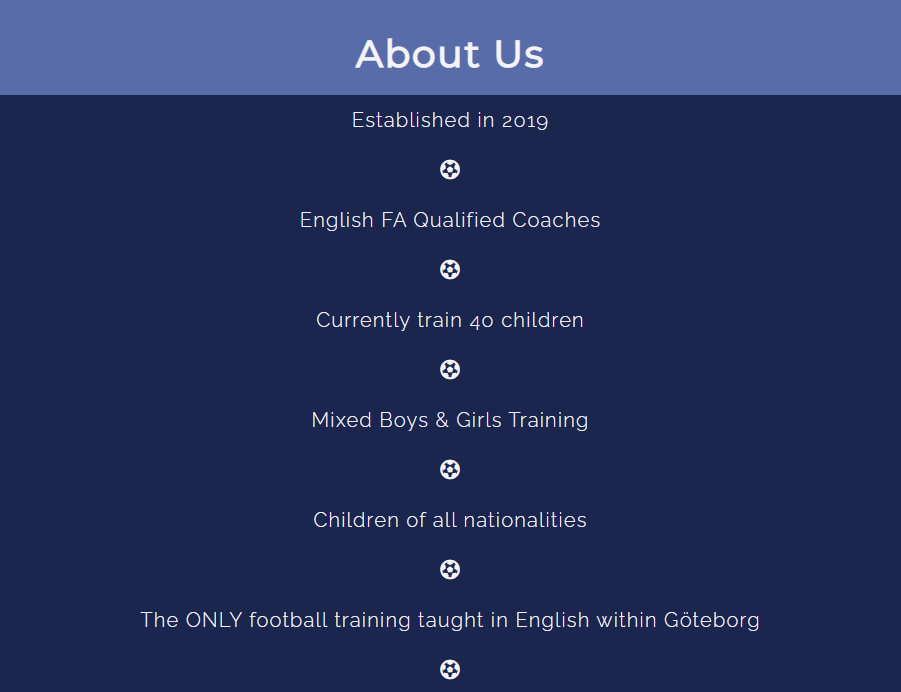
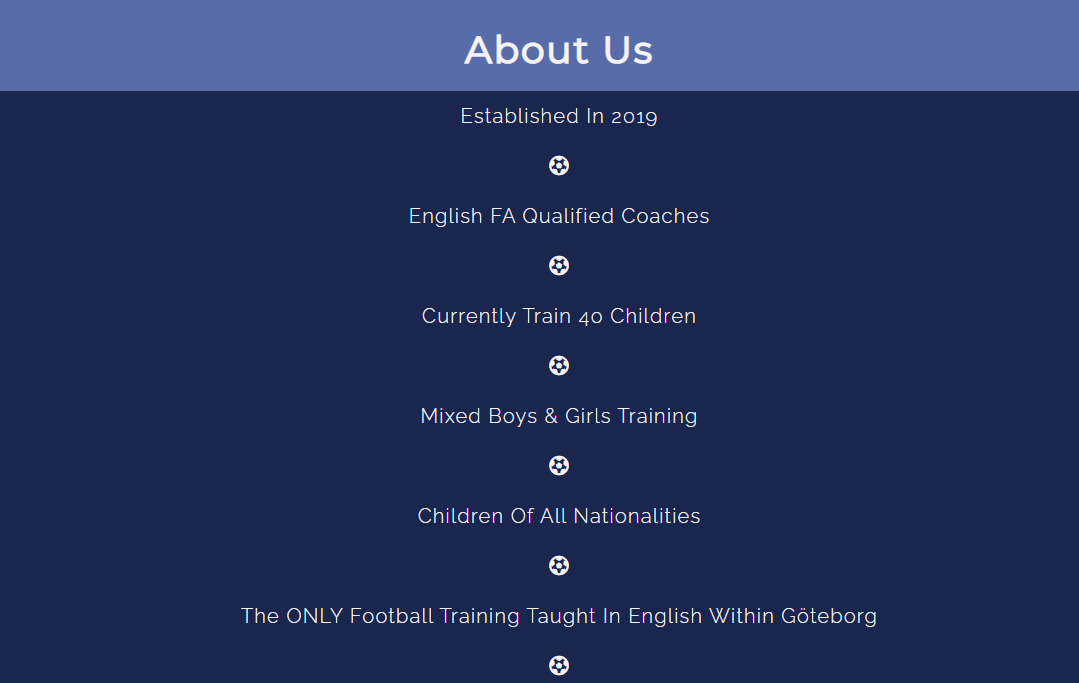
Project Complete. Will need to go through typos etc etc

diff --git a/index.html b/index.html
@@ -74,7 +74,7 @@
         </header>
         <div class="coach-container">
           <div class="flexbox-colour">
-            <img src="assests/images/coach-richards.png"
+            <img src="assets/images/coach-richards.png"
               alt="Football Coach for The English Football School, Richie Richards">
             <ul>
               <li><span class="bold">Richie Richards</span></li>
@@ -92,7 +92,7 @@
             </div>
           </div>
           <div class="flexbox-colour">
-            <img src="assests/images/coach-edwards.png" height="150"
+            <img src="assets/images/coach-edwards.png" height="150"
               alt="Football Coach for The English Football School, Eddie Edwards">
             <ul>
               <li><span class="bold">Eddie Edwards</span></li>

diff --git a/assets/styles/styles.css b/assets/styles/styles.css
@@ -116,6 +116,7 @@ address {
   font-weight: 300;
   padding-top: 0.75em;
   padding-bottom: 0.75em;
+  text-transform: capitalize;
 }
 
 

diff --git a/README.md b/README.md
@@ -174,14 +174,15 @@ The two fonts provided a nice and subtle difference. Due to its default font-wei
   
   -The logo is a simple font based logo to keep with a more minimalist and sleek design. The logo also doubles up as a navigational link, to allow the user to always return to the home page.
 
-![Logo]('assets/readme-images/features-logo.png)
+![Logo](assets/readme-images/features-logo.png)
  
  ***
 
 #### Navigation Bar
   
-  - The navigation bar is featured on both pages of the website. The main page of the website is a single page website, which the navigation links will help the user    jump down to each specific section. 
-  - The sections include, 'Home', 'About Us', 'Coaches and Contact Us', 'Prices', 'Training Times', and 'Sign-Up'. The 'Sign-Up' directs the user to a new page. The navigation bar retains the same position and style on both pages, allowing for good accessibility.
+  - The navigation bar is featured on all pages of the website. The main page of the website is a single page website, which the navigation links will help the user    jump down to each specific section. 
+  - The sections include, 'Home', 'About Us', 'Coaches and Contact Us', 'Prices', 'Training Times', and 'Sign-Up'. The 'Sign-Up' directs the user to a new page. The navigation bar retains the same position and style on all pages, allowing for good accessibility.
+  - On devices smaller than tablet, the nav bar reverts to a column. This is to allow the user better access to click on each link. This style remains the same on all pages, whilst using smaller devices.
 
 ![Nav Bar](assets/readme-images/features-navbar.png)
 ![Nav Bar Mobile](assets/readme-images/features-navbar-mobile.png)
@@ -190,9 +191,10 @@ The two fonts provided a nice and subtle difference. Due to its default font-wei
 
 #### Hero Image
 
-  - The landing image is a photograph with a text overlay. This provides the user with instant information,  'what the site is about', 'age range', and 'location of the training sessions'. This allows the user instant clarification regarding the site.
-  - This section provides a large football training related photo that is colourful and eye-catching. The image colours also maintain the colour theme of the website. The center piece of the image, shows a nice light blue, with tones of white being the secondary stand-out colour.
-  - For mobile devices I opted for the text overlay to have a bold background colour and to sit on top of the landing page image. I chose this design as it felt that this information would be read instantly when the user access the website on a mobile device. It also maintains a visual balance of block text, image, block text etc achieved with the website. 
+ - The landing image is off a child and young adult relaxing on a sports field. The image itself is blurry, which gives a great effect and the image is really striking when you first look at the website.
+ - The image is great highlights the relaxed atmosphere the club is taking to their football training sessions. It also has bright vivid colours that compliment the blue colour scheme.
+ - The main heading of the hero image is a banner going across the top. This is to tell the user what this website is about instantly. It also tells the ages and the location. Straight away the user knows what the website is about.
+
 
 ![Hero Image](assets/readme-images/features-hero.png)
 
@@ -200,11 +202,12 @@ The two fonts provided a nice and subtle difference. Due to its default font-wei
 
 #### About Us
 
+  - All headers on the website follow the same design pattern, which is the same colour tones as the navigation bar. A light blue with white font. This is to forge a partnership between the nav bar and the headers of the same section. It provides great design symmetry.
   - This provides the user with quick facts about The English Football Club. It establishes the success the club already has had allowing a sense of ease for the user.
-  - It shows how the club is diverse and inclusive, to help put parents minds at ease.
   - The second is a block background with font. I wanted to keep a minimalist approach, with straight to the point text. Information is clear, concise and can be read easily.
+  - The icons are are great way to break up the quick-fire facts. Also it adds an elements of fun to the website.
 
-![About Us](assets/readme-images/features-aboutus.png)
+![About Us](/assets/readme-images/features-aboutus.png)
 
 ***
 
@@ -222,11 +225,12 @@ The two fonts provided a nice and subtle difference. Due to its default font-wei
 #### Prices
 
   - This section was kept simple. It is the continuation of the design pattern, using block colours which alternates with imagery as the user scrolls down the website.  
-  - The attention is to draw the user directly to the price. That is why block colours were chosen upon. The prices are crystal clear and can be easily seen.
+  - The attention is to draw the user directly to the price. That is why block colours were chosen. The prices are crystal clear and can be easily seen.
   - The football icon is a nice break up of the text, whilst also reinforcing the football content.
   - For mobile devices they stack vertically.
 
 ![Prices](assets/readme-images/features-prices.png)
+![Prices - Mobile](assets/readme-images/features-prices-mobile.png)
 
 ***
 
@@ -240,6 +244,7 @@ The two fonts provided a nice and subtle difference. Due to its default font-wei
   - For Mobile devices, the boxes stack vertically.
 
 ![Training Times](assets/readme-images/features-training-times.png)
+![Training Times - Mobile](assets/readme-images/features-training-times-mobile.png)
 
 ***
 
@@ -256,8 +261,8 @@ The two fonts provided a nice and subtle difference. Due to its default font-wei
 
 #### Go To Top Button
 
-  - As the main content of our website is a single-page scroll, we implemented am 'up' arrow to allow the user to return to the top of the website. The button is in the same font colour as the website, with the dark blue colour used for the logo. This is to allow the user to clearly see it at all times.
-  - This was used instead of a sticky Nav bar, as it is something slightly different. A sticky nav bar would clash with each section title. The background colour of the nav bar and each section is the same. This is to create a nice aesthetic. The sticky nav bar would confuse the user, as it could blend in with the section title.
+  - As the main content of our website is a single-page scroll, I implemented a 'up' arrow to allow the user to return to the top of the website. The button is in the same font colour as the website, with the dark blue colour used for the logo. This is to allow the user to clearly see it at all times.
+  - This was used instead of a sticky nav bar, as it is something slightly different. A sticky nav bar would clash with each section title. The background colour of the nav bar and each section is the same. This is to create a nice aesthetic. The sticky nav bar would confuse the user, as it could blend in with the section title.
   - This feature is only on tablet and above devices.
 
 ![Go To Top Button](assets/readme-images/features-go-to-top-btn.png)
@@ -279,9 +284,8 @@ The two fonts provided a nice and subtle difference. Due to its default font-wei
 
 #### Submitted Form
 
-  - We won't expect the user to stay long on this page. Hence the simple design of a background colour and font, which is in keeping with the style of the website.
+  - I won't expect the user to stay long on this page. Hence the simple design of a background colour and font, which is in keeping with the style of the website.
   - The user wants to know we have received the form, and that they we welcome at training, therefore there are no visual distractions.
-  - Lorem
 
 ![Submitted Form](assets/readme-images/features-formsubmit.png)
 
@@ -289,7 +293,7 @@ The two fonts provided a nice and subtle difference. Due to its default font-wei
 
 #### Error 404
 
-  - We do not expect the user to stay on this page for long, nor should they! The page contains a link at the bottom with 'HERE!'. THe letters are uppercase and underlined to exaggerate where the user has to click.
+  - I do not expect the user to stay on this page for long, nor should they! The page contains a link at the bottom with 'HERE!'. THe letters are uppercase and underlined to exaggerate where the user has to click.
   - Failing that, the navigation bar remains at the top of the page, allowing the user to click on any of the established links to return back to the content pages of the website.
 
 
@@ -334,7 +338,7 @@ Frameworks and Libraries
   HTML
     <details>
       <summary>'index.html' - Zero Errors</summary>
-      ![index.html](asssts/readme-images/w3schools-index-validator.png)
+      ![index.html](assets/readme-images/w3schools-index-validator.png)
     </details>
     <details>
     <summary>'sign-up.html' - Zero Errors</summary>
@@ -478,12 +482,12 @@ I had a lot of issues with the Sign-Up Form. It took me a long time to come to a
   
   <br>
  - Bug 2 - Sign-Up Form
-  Position: Relative' and 'Position: Absolute'. For Desktop and Tablets there was no issue. However, on Mobile devices, the sign-up form was off the page, or loading over the footer. I solved this issue by removing the background image and using a background colour instead. I also made a smaller font-size, and managed to move the Position: Absolute toward the left side.
+  Position: Relative' and 'Position: Absolute'. For Desktop and Tablets there was no issue. However, on mobile devices, the sign-up form was off the page, or loading over the footer. I solved this issue by removing the background image and using a background colour instead. This also help to dramatically increase the performance of on mobile devices. I also made a smaller font-size, and managed to move the Position: Absolute toward the left side.
 
 <br>
 
  - Bug 3 - Navigation Bar
-  I had issues regarding the Navigation Bar for Mobile Devices. I used Flexbox in order to create the Nav bar, however, on a Mobile device it looked too 'busy' with messy ordering. I opted to change the Nav bar to a column on Mobile devices. This was a better representation. Using two different iPhones, I was able to use the links without any difficulty. This could be a future bug, as I note that it was the Nav bar that hindered my 100% scores to mid 90s on Lighthouse. Going forward, I would like to implement a 'Hamburger' Nav bar for Mobile devices. Upon research, JavaScript is required for this. After immersing myself into JavaScript, this bug will be corrected, and as such achieve 100% on Lighthouse.
+  I had issues regarding the Navigation Bar for Mobile Devices. I used Flexbox in order to create the nav bar, however, on a Mobile device it looked too 'busy' with messy ordering. I opted to change the Nav bar to a column on Mobile devices. This was a better representation. Using two different iPhones, I was able to use the links without any difficulty. This could be a future bug, as I note that it was the Nav bar that hindered my 100% scores to mid 90s on Lighthouse. Going forward, I would like to implement a 'Hamburger' Nav bar for Mobile devices. Upon research, JavaScript is required for this. After immersing myself into JavaScript, this bug will be corrected, and as such achieve 100% on Lighthouse.
 
   <br>
 
@@ -514,7 +518,7 @@ I had a lot of issues with the Sign-Up Form. It took me a long time to come to a
   All written content is purely fictional. I created the written content myself as the company is also fictional. 
   - The training section was inspired by a section of tutorial project, [Love Running](https://github.com/Code-Institute-Solutions/love-running-2.0-sourcecode/tree/main/05-meetup-times), via the Code Institute.
   - A lot of research was placed on [Stack Overflow](https://stackoverflow.com/), [W3Schools](https://www.w3schools.com/), [Mozilla Developer](https://developer.mozilla.org/en-US/)
-  - I implemented a 'Scroll to Top Button - [Scroll to Top Button](https://www.youtube.com/watch?v=Vef9bxTilCU&ab_channel=DarkCode)
+  - I implemented a 'Scroll to Top Button' - [Scroll to Top Button](https://www.youtube.com/watch?v=Vef9bxTilCU&ab_channel=DarkCode)
   - Help with Code for the form [Form Code](https://dev.to/uma/responsive-form-using-html-and-css-4l59)
   - [Position Absolute and Relative](https://thoughtbot.com/blog/positioning#position)
   -  [CSS Tricks Guide to Flexbox](https://css-tricks.com/snippets/css/a-guide-to-flexbox)
